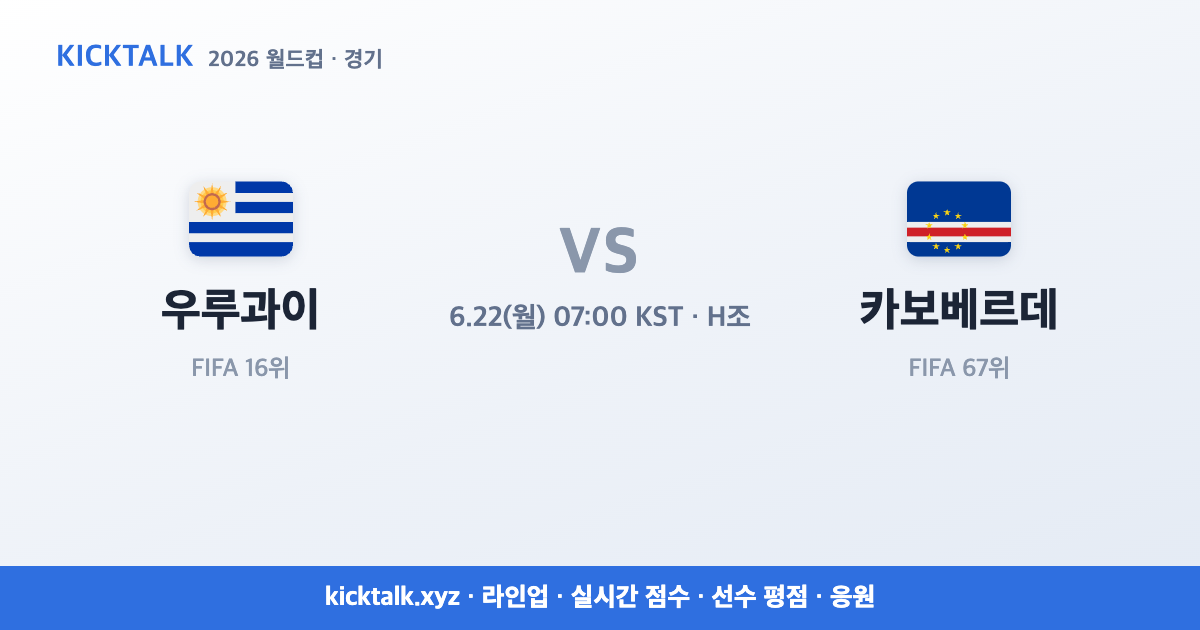
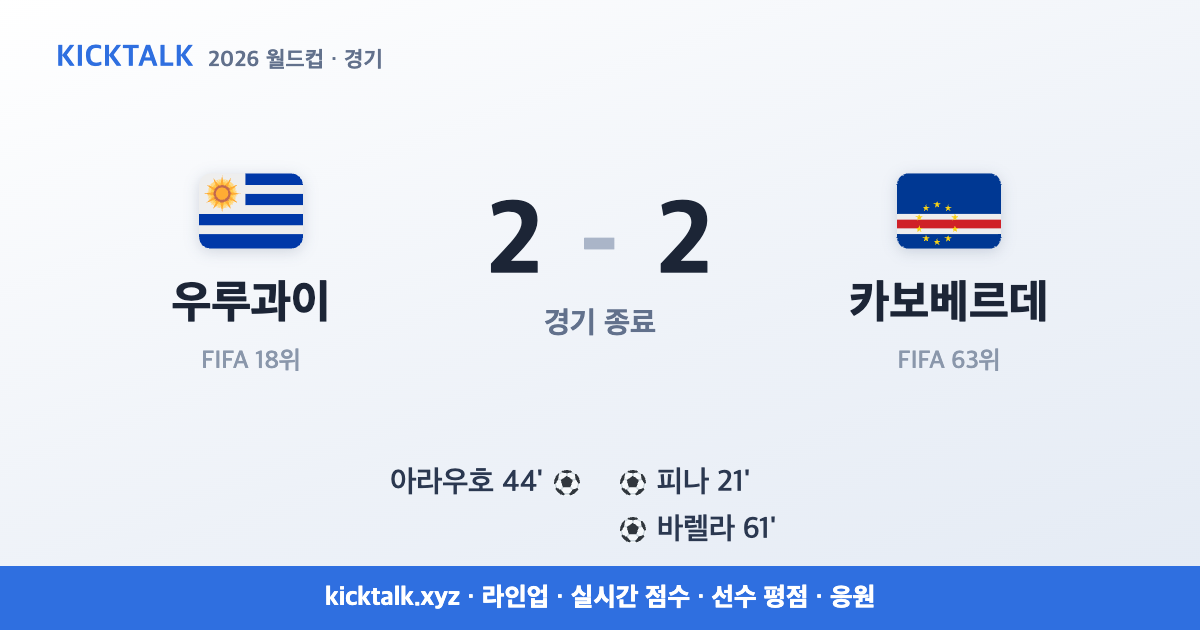
OG 자동재생성(종료경기 결과반영): match-46

diff --git a/m/uruguay-vs-cape-verde.html b/m/uruguay-vs-cape-verde.html
@@ -1,1 +1,1 @@
-<!DOCTYPE html><html lang=ko><head><meta charset=UTF-8><meta name=viewport content='width=device-width,initial-scale=1'><script async src='https://www.googletagmanager.com/gtag/js?id=G-KNLJ29Y409'></script><script>window.dataLayer=window.dataLayer||[];function gtag(){dataLayer.push(arguments);}gtag('js',new Date());gtag('config','G-KNLJ29Y409');</script><title>우루과이 vs 카보베르데 중계·라인업·선수평점 | 킥톡 2026 월드컵</title><meta name=description content='우루과이 vs 카보베르데 6/22(월) 07:00 KST 킥오프 (H조). 예상·확정 라인업, 실시간 중계 스코어, 선수 평점·MVP 투표, 응원·하이라이트까지 킥톡에서 한눈에.'><link rel=canonical href='https://kicktalk.xyz/m/uruguay-vs-cape-verde.html'><meta name=robots content='index,follow'><meta property=og:type content=website><meta property=og:title content='우루과이 vs 카보베르데 — 중계·라인업·평점 | 킥톡'><meta property=og:description content='우루과이 vs 카보베르데 6/22(월) 07:00 KST 킥오프 (H조). 예상·확정 라인업, 실시간 중계 스코어, 선수 평점·MVP 투표, 응원·하이라이트까지 킥톡에서 한눈에.'><meta property=og:url content='https://kicktalk.xyz/m/uruguay-vs-cape-verde.html'><meta property=og:image content='https://kicktalk.xyz/ogm/uruguay-vs-cape-verde.png?v=3'><meta property=og:image:width content='1200'><meta property=og:image:height content='630'><meta name=twitter:card content='summary_large_image'><meta name=twitter:title content='우루과이 vs 카보베르데 | 킥톡'><meta name=twitter:description content='우루과이 vs 카보베르데 6/22(월) 07:00 KST 킥오프 (H조). 예상·확정 라인업, 실시간 중계 스코어, 선수 평점·MVP 투표, 응원·하이라이트까지 킥톡에서 한눈에.'><meta name=twitter:image content='https://kicktalk.xyz/ogm/uruguay-vs-cape-verde.png?v=3'><script type=application/ld+json>{"@context":"https://schema.org","@type":"SportsEvent","name":"우루과이 vs 카보베르데","sport":"축구","startDate":"2026-06-21","location":{"@type":"Place","name":"Hard Rock Stadium, Miami Gardens"},"url":"https://kicktalk.xyz/m/uruguay-vs-cape-verde.html","competitor":[{"@type":"SportsTeam","name":"우루과이"},{"@type":"SportsTeam","name":"카보베르데"}]}</script><style>body{margin:0;background:#070d18;color:#eaf0fb;font-family:-apple-system,'Apple SD Gothic Neo',sans-serif;line-height:1.6}.wrap{max-width:680px;margin:0 auto;padding:20px;text-align:center}a{color:#4f8cff;text-decoration:none}.brand{font-weight:800;padding:8px 0;font-size:15px}h1{font-size:26px;margin:18px 0 6px}.vs{color:#9fb0cc;font-size:18px;font-weight:600}.meta{color:#9fb0cc;font-size:14px;margin:0 0 8px}h2{font-size:14px;color:#9fb0cc;margin:22px 0 8px}ul.wp{list-style:none;padding:0;text-align:left}ul.wp li{background:#111c30;border:1px solid #243049;border-radius:8px;padding:9px 12px;margin-bottom:6px;font-size:14px}.cta{display:inline-block;background:#4f8cff;color:#06122a;font-weight:800;border-radius:11px;padding:13px 20px;margin:20px 0 8px}.sub{color:#6f7d96;font-size:12.5px}.tlinks{font-size:13.5px;margin-top:14px}.ft{margin-top:26px;padding-top:14px;border-top:1px solid #243049;color:#6f7d96;font-size:12.5px}.ft a{color:#9fb0cc}</style></head><body><div class=wrap><div class=brand>⚽ <a href='https://kicktalk.xyz/'>킥톡 KickTalk</a></div><h1>🇺🇾 우루과이 <span class=vs>vs</span> 카보베르데 🇨🇻</h1><p class=meta>6/22(월) 07:00 KST · H조 · Hard Rock Stadium, Miami Gardens</p><h2>우루과이 vs 카보베르데 경기 정보·중계</h2><p>우루과이 vs 카보베르데 경기는 6/22(월) 07:00 KST H조에 열립니다. 예상·확정 라인업과 실시간 중계 스코어, 경기 후 선수 평점·MVP 투표를 킥톡에서 무료로 확인하세요. 경기장: Hard Rock Stadium, Miami Gardens.</p><h2>관전 포인트</h2><ul class=wp><li>발베르데가 이끄는 우루과이의 폭발적인 중원 장악을, 자미루 몬테이루를 중심으로 한 카보베르데의 에너지 넘치는 중원이 어떻게 견뎌낼지가 관전 포인트다.</li><li>아라우호-히메네스의 센터백 조합과 카보베르데 라이언 멘데스의 측면 역습이 맞붙는 공수 대결이 경기의 결을 만든다.</li><li>두 팀 모두 라인과 압박의 강도가 높은 편이라, 누가 먼저 상대의 전환을 끊고 주도권을 쥐느냐가 중요하다.</li></ul><a class=cta href='https://kicktalk.xyz/#match/match-46'>킥톡에서 실시간 점수·라인업·선수평점 보기 →</a><p class=sub>예상 라인업 · 실시간 스코어 · 선수 평점/MVP 투표 · 응원 메시지 · 포인트 베팅</p><p class=tlinks><a href='https://kicktalk.xyz/t/uruguay.html'>우루과이 선수단</a> · <a href='https://kicktalk.xyz/t/cape-verde.html'>카보베르데 선수단</a></p><div class=ft><a href='https://kicktalk.xyz/'>홈</a> · <a href='https://kicktalk.xyz/about.html'>소개</a> · <a href='https://kicktalk.xyz/privacy.html'>개인정보처리방침</a> · <a href='https://kicktalk.xyz/terms.html'>서비스 약관</a></div></div></body></html>
+<!DOCTYPE html><html lang=ko><head><meta charset=UTF-8><meta name=viewport content='width=device-width,initial-scale=1'><script async src='https://www.googletagmanager.com/gtag/js?id=G-KNLJ29Y409'></script><script>window.dataLayer=window.dataLayer||[];function gtag(){dataLayer.push(arguments);}gtag('js',new Date());gtag('config','G-KNLJ29Y409');</script><title>우루과이 vs 카보베르데 중계·라인업·선수평점 | 킥톡 2026 월드컵</title><meta name=description content='우루과이 vs 카보베르데 6/22(월) 07:00 KST 킥오프 (H조). 예상·확정 라인업, 실시간 중계 스코어, 선수 평점·MVP 투표, 응원·하이라이트까지 킥톡에서 한눈에.'><link rel=canonical href='https://kicktalk.xyz/m/uruguay-vs-cape-verde.html'><meta name=robots content='index,follow'><meta property=og:type content=website><meta property=og:title content='우루과이 vs 카보베르데 — 중계·라인업·평점 | 킥톡'><meta property=og:description content='우루과이 vs 카보베르데 6/22(월) 07:00 KST 킥오프 (H조). 예상·확정 라인업, 실시간 중계 스코어, 선수 평점·MVP 투표, 응원·하이라이트까지 킥톡에서 한눈에.'><meta property=og:url content='https://kicktalk.xyz/m/uruguay-vs-cape-verde.html'><meta property=og:image content='https://kicktalk.xyz/ogm/uruguay-vs-cape-verde.png?v=4'><meta property=og:image:width content='1200'><meta property=og:image:height content='630'><meta name=twitter:card content='summary_large_image'><meta name=twitter:title content='우루과이 vs 카보베르데 | 킥톡'><meta name=twitter:description content='우루과이 vs 카보베르데 6/22(월) 07:00 KST 킥오프 (H조). 예상·확정 라인업, 실시간 중계 스코어, 선수 평점·MVP 투표, 응원·하이라이트까지 킥톡에서 한눈에.'><meta name=twitter:image content='https://kicktalk.xyz/ogm/uruguay-vs-cape-verde.png?v=4'><script type=application/ld+json>{"@context":"https://schema.org","@type":"SportsEvent","name":"우루과이 vs 카보베르데","sport":"축구","startDate":"2026-06-21","location":{"@type":"Place","name":"Hard Rock Stadium, Miami Gardens"},"url":"https://kicktalk.xyz/m/uruguay-vs-cape-verde.html","competitor":[{"@type":"SportsTeam","name":"우루과이"},{"@type":"SportsTeam","name":"카보베르데"}]}</script><style>body{margin:0;background:#070d18;color:#eaf0fb;font-family:-apple-system,'Apple SD Gothic Neo',sans-serif;line-height:1.6}.wrap{max-width:680px;margin:0 auto;padding:20px;text-align:center}a{color:#4f8cff;text-decoration:none}.brand{font-weight:800;padding:8px 0;font-size:15px}h1{font-size:26px;margin:18px 0 6px}.vs{color:#9fb0cc;font-size:18px;font-weight:600}.meta{color:#9fb0cc;font-size:14px;margin:0 0 8px}h2{font-size:14px;color:#9fb0cc;margin:22px 0 8px}ul.wp{list-style:none;padding:0;text-align:left}ul.wp li{background:#111c30;border:1px solid #243049;border-radius:8px;padding:9px 12px;margin-bottom:6px;font-size:14px}.cta{display:inline-block;background:#4f8cff;color:#06122a;font-weight:800;border-radius:11px;padding:13px 20px;margin:20px 0 8px}.sub{color:#6f7d96;font-size:12.5px}.tlinks{font-size:13.5px;margin-top:14px}.ft{margin-top:26px;padding-top:14px;border-top:1px solid #243049;color:#6f7d96;font-size:12.5px}.ft a{color:#9fb0cc}</style></head><body><div class=wrap><div class=brand>⚽ <a href='https://kicktalk.xyz/'>킥톡 KickTalk</a></div><h1>🇺🇾 우루과이 <span class=vs>vs</span> 카보베르데 🇨🇻</h1><p class=meta>6/22(월) 07:00 KST · H조 · Hard Rock Stadium, Miami Gardens</p><h2>우루과이 vs 카보베르데 경기 정보·중계</h2><p>우루과이 vs 카보베르데 경기는 6/22(월) 07:00 KST H조에 열립니다. 예상·확정 라인업과 실시간 중계 스코어, 경기 후 선수 평점·MVP 투표를 킥톡에서 무료로 확인하세요. 경기장: Hard Rock Stadium, Miami Gardens.</p><h2>관전 포인트</h2><ul class=wp><li>발베르데가 이끄는 우루과이의 폭발적인 중원 장악을, 자미루 몬테이루를 중심으로 한 카보베르데의 에너지 넘치는 중원이 어떻게 견뎌낼지가 관전 포인트다.</li><li>아라우호-히메네스의 센터백 조합과 카보베르데 라이언 멘데스의 측면 역습이 맞붙는 공수 대결이 경기의 결을 만든다.</li><li>두 팀 모두 라인과 압박의 강도가 높은 편이라, 누가 먼저 상대의 전환을 끊고 주도권을 쥐느냐가 중요하다.</li></ul><a class=cta href='https://kicktalk.xyz/#match/match-46'>킥톡에서 실시간 점수·라인업·선수평점 보기 →</a><p class=sub>예상 라인업 · 실시간 스코어 · 선수 평점/MVP 투표 · 응원 메시지 · 포인트 베팅</p><p class=tlinks><a href='https://kicktalk.xyz/t/uruguay.html'>우루과이 선수단</a> · <a href='https://kicktalk.xyz/t/cape-verde.html'>카보베르데 선수단</a></p><div class=ft><a href='https://kicktalk.xyz/'>홈</a> · <a href='https://kicktalk.xyz/about.html'>소개</a> · <a href='https://kicktalk.xyz/privacy.html'>개인정보처리방침</a> · <a href='https://kicktalk.xyz/terms.html'>서비스 약관</a></div></div></body></html>